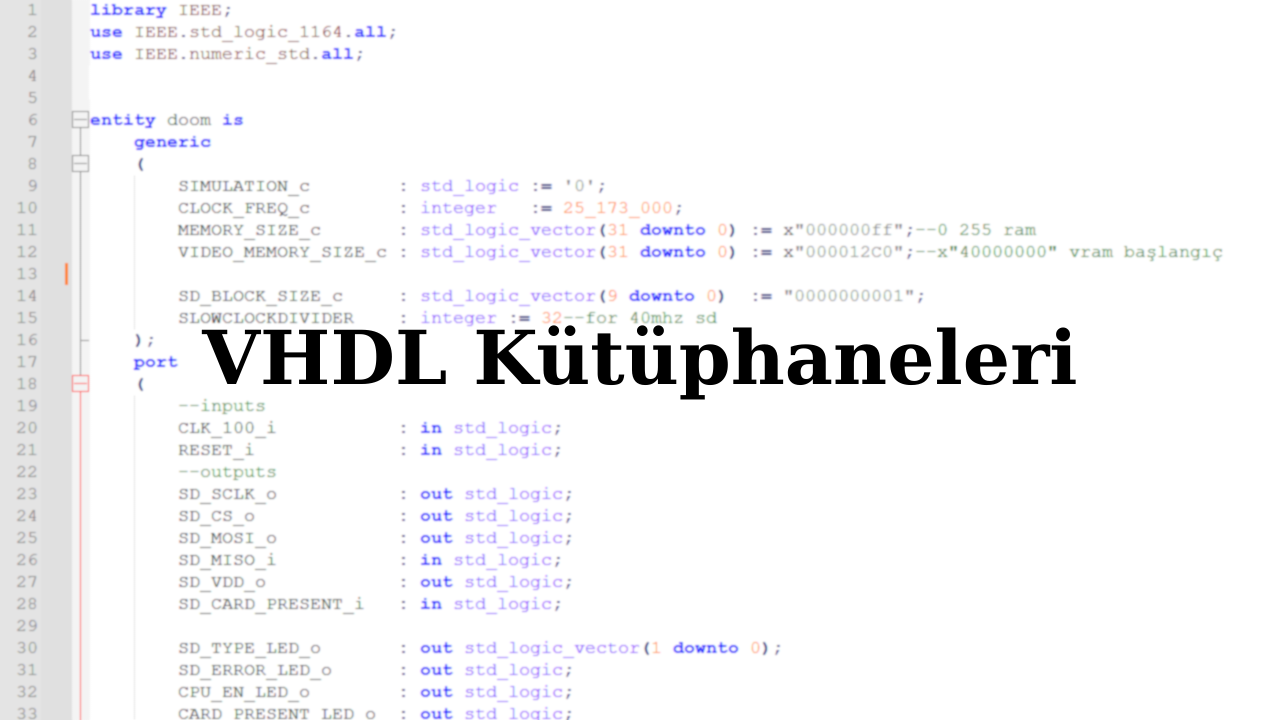
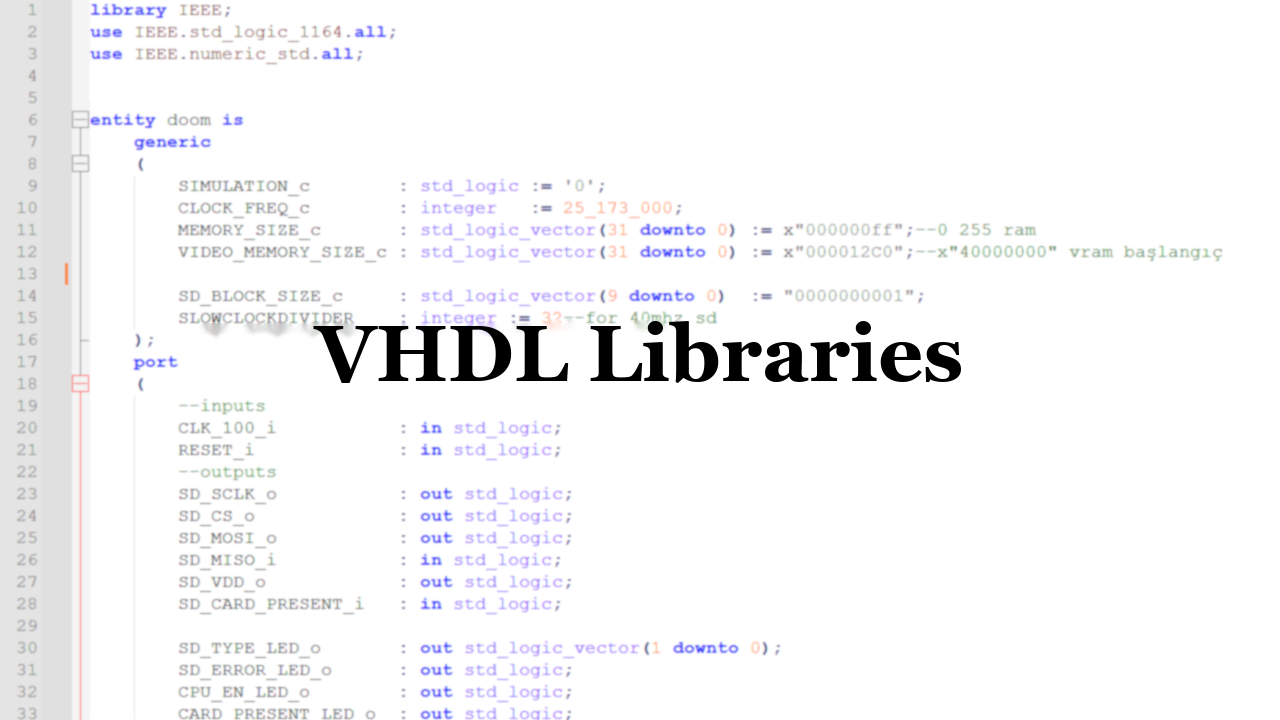
Dil secici dropdown, EN kapak gorselleri
- Menudeki TR/EN butonu yerine Turkce/English dropdown
- Kullanilmayan footer/js.html override'i kaldirildi
- _en kapak gorselleri Ingilizce yazili surumlerle degistirildi

Changed region(s): [[0.1562, 0.4278, 0.8438, 0.5806]]

diff --git a/layouts/partials/menu.html b/layouts/partials/menu.html
@@ -14,17 +14,23 @@ Renders a menu for the given menu ID.
   <nav id="menu-bar" class="block mt-3 close">
     <ul class="flex items-center flex flex-nowrap whitespace-nowrap overflow-x-auto space-x-4">
       {{- partial "inline/menu/walk.html" (dict "page" $page "menuEntries" .) }}
-      {{- /* Language switcher: link to this page's translation, else the other language's home page */}}
-      {{- range site.Languages }}
-        {{- $lang := . }}
-        {{- if ne $lang.Lang site.Language.Lang }}
-          {{- $url := "" }}
-          {{- range $page.AllTranslations }}{{ if eq .Language.Lang $lang.Lang }}{{ $url = .RelPermalink }}{{ end }}{{ end }}
-          {{- if not $url }}{{ range site.Sites }}{{ if eq .Language.Lang $lang.Lang }}{{ $url = .Home.RelPermalink }}{{ end }}{{ end }}{{ end }}
-          <li class="my-2 ml-auto">
-            <a class="lang-switch rounded-full border px-6 py-2 bg-zinc-100 hover:bg-zinc-200" href="{{ $url }}" hreflang="{{ $lang.LanguageCode }}" data-lang="{{ $lang.Lang }}">{{ $lang.Lang | title }}</a>
-          </li>
-        {{- end }}
+      {{- /* Language dropdown: options link to this page's translation, else the other language's home page */}}
+      {{- if gt (len site.Languages) 1 }}
+      <li class="my-2 ml-auto">
+        <select class="lang-select rounded-full border px-4 py-2 bg-zinc-100 hover:bg-zinc-200" aria-label="Language" onchange="try{localStorage.setItem('lang',this.options[this.selectedIndex].dataset.lang)}catch(e){}location.href=this.value">
+          {{- range site.Languages }}
+            {{- $lang := . }}
+            {{- $url := "" }}
+            {{- if eq $lang.Lang site.Language.Lang }}
+              {{- $url = $page.RelPermalink }}
+            {{- else }}
+              {{- range $page.AllTranslations }}{{ if eq .Language.Lang $lang.Lang }}{{ $url = .RelPermalink }}{{ end }}{{ end }}
+              {{- if not $url }}{{ range site.Sites }}{{ if eq .Language.Lang $lang.Lang }}{{ $url = .Home.RelPermalink }}{{ end }}{{ end }}{{ end }}
+            {{- end }}
+          <option value="{{ $url }}" data-lang="{{ $lang.Lang }}" lang="{{ $lang.LanguageCode }}"{{ if eq $lang.Lang site.Language.Lang }} selected{{ end }}>{{ $lang.LanguageName }}</option>
+          {{- end }}
+        </select>
+      </li>
       {{- end }}
     </ul>
   </nav>

diff --git a/assets/css/custom.css b/assets/css/custom.css
@@ -1,2 +1,5 @@
 /* Sidebar thumbnails: show the whole cover, keep its aspect ratio. */
 .thumb-img { display: block; width: 100%; height: auto; }
+
+/* Language dropdown matches the menu pills */
+.lang-select { font: inherit; color: inherit; cursor: pointer; }
